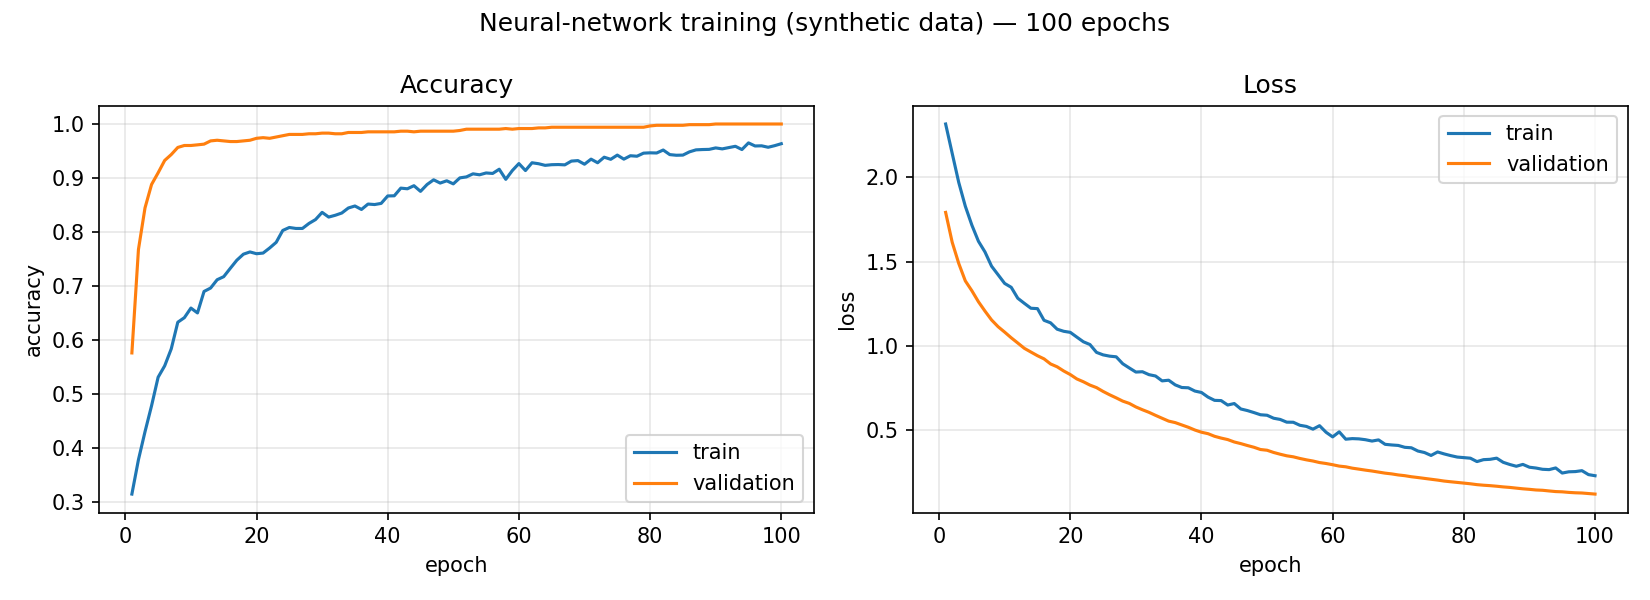
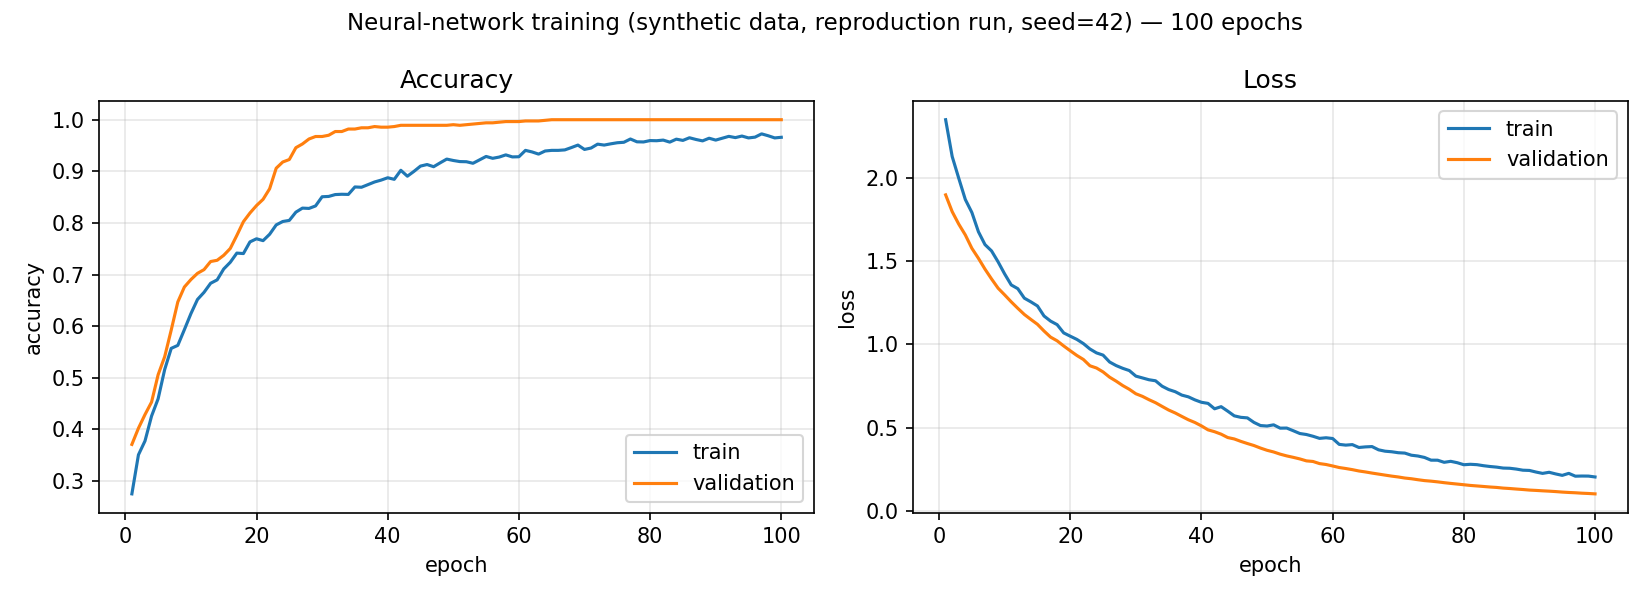
feat: reproducible training (seed 42) and confusion-matrix results
Seed the training run for reproducibility; add the confusion matrix and refresh
the training curves from the seeded run (99.81% on the synthetic test split).

diff --git a/src/train.py b/src/train.py
@@ -41,6 +41,11 @@ def load_xy(data_path: Path = DATA_PATH):
 
 
 def main() -> None:
+    import tensorflow as tf
+
+    # Seed everything for a reproducible run (the report's results use seed 42).
+    tf.keras.utils.set_random_seed(42)
+
     X, y = load_xy()
     X_train, X_test, y_train, y_test = train_test_split(
         X, y, test_size=0.2, random_state=42